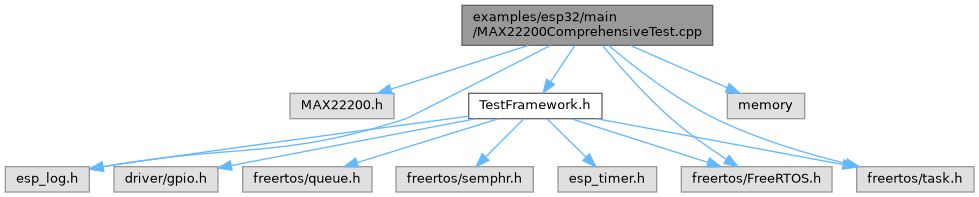
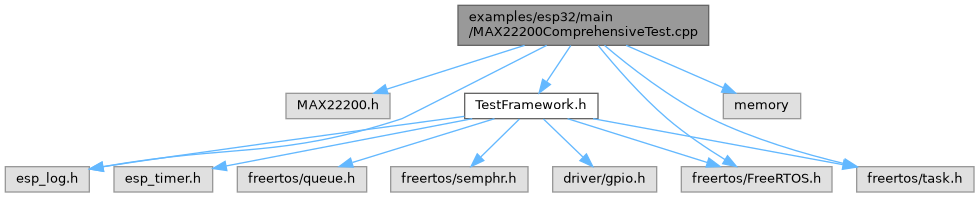
Deploy Doxygen artifacts for development
- Version: development
- Type: development
- Commit: 197cbf7da840f77dd56b8948029296d33334ba4c
- Ref: refs/heads/main
- Deployed: $(date -u +%Y-%m-%dT%H:%M:%SZ) 197cbf7da840f77dd56b8948029296d33334ba4c

diff --git a/doxs/development/TestFramework_8h_source.html b/doxs/development/TestFramework_8h_source.html
@@ -107,9 +107,9 @@ $(function(){initNavTree('TestFramework_8h_source.html',''); initResizable(); })
 <div class="line"><a id="l00018" name="l00018"></a><span class="lineno">   18</span><span class="keyword">extern</span> <span class="stringliteral">&quot;C&quot;</span> {</div>
 <div class="line"><a id="l00019" name="l00019"></a><span class="lineno">   19</span><span class="preprocessor">#endif</span></div>
 <div class="line"><a id="l00020" name="l00020"></a><span class="lineno">   20</span> </div>
-<div class="line"><a id="l00021" name="l00021"></a><span class="lineno">   21</span><span class="preprocessor">#include &quot;esp_log.h&quot;</span></div>
-<div class="line"><a id="l00022" name="l00022"></a><span class="lineno">   22</span><span class="preprocessor">#include &quot;esp_timer.h&quot;</span></div>
-<div class="line"><a id="l00023" name="l00023"></a><span class="lineno">   23</span><span class="preprocessor">#include &quot;driver/gpio.h&quot;</span></div>
+<div class="line"><a id="l00021" name="l00021"></a><span class="lineno">   21</span><span class="preprocessor">#include &quot;driver/gpio.h&quot;</span></div>
+<div class="line"><a id="l00022" name="l00022"></a><span class="lineno">   22</span><span class="preprocessor">#include &quot;esp_log.h&quot;</span></div>
+<div class="line"><a id="l00023" name="l00023"></a><span class="lineno">   23</span><span class="preprocessor">#include &quot;esp_timer.h&quot;</span></div>
 <div class="line"><a id="l00024" name="l00024"></a><span class="lineno">   24</span><span class="preprocessor">#include &quot;freertos/FreeRTOS.h&quot;</span></div>
 <div class="line"><a id="l00025" name="l00025"></a><span class="lineno">   25</span><span class="preprocessor">#include &quot;freertos/queue.h&quot;</span></div>
 <div class="line"><a id="l00026" name="l00026"></a><span class="lineno">   26</span><span class="preprocessor">#include &quot;freertos/semphr.h&quot;</span></div>
@@ -188,10 +188,10 @@ $(function(){initNavTree('TestFramework_8h_source.html',''); initResizable(); })
 <div class="line"><a id="l00107" name="l00107"></a><span class="lineno">  107</span>  <span class="keywordflow">if</span> (g_test_progress_initialized) {</div>
 <div class="line"><a id="l00108" name="l00108"></a><span class="lineno">  108</span>    <span class="comment">// Ensure GPIO14 is LOW before cleanup</span></div>
 <div class="line"><a id="l00109" name="l00109"></a><span class="lineno">  109</span>    gpio_set_level(TEST_PROGRESS_PIN, 0);</div>
-<div class="line"><a id="l00110" name="l00110"></a><span class="lineno">  110</span>    </div>
+<div class="line"><a id="l00110" name="l00110"></a><span class="lineno">  110</span> </div>
 <div class="line"><a id="l00111" name="l00111"></a><span class="lineno">  111</span>    <span class="comment">// Reset GPIO configuration</span></div>
 <div class="line"><a id="l00112" name="l00112"></a><span class="lineno">  112</span>    gpio_reset_pin(TEST_PROGRESS_PIN);</div>
-<div class="line"><a id="l00113" name="l00113"></a><span class="lineno">  113</span>    </div>
+<div class="line"><a id="l00113" name="l00113"></a><span class="lineno">  113</span> </div>
 <div class="line"><a id="l00114" name="l00114"></a><span class="lineno">  114</span>    g_test_progress_initialized = <span class="keyword">false</span>;</div>
 <div class="line"><a id="l00115" name="l00115"></a><span class="lineno">  115</span>    g_test_progress_state = <span class="keyword">false</span>;</div>
 <div class="line"><a id="l00116" name="l00116"></a><span class="lineno">  116</span>  }</div>
@@ -206,10 +206,10 @@ $(function(){initNavTree('TestFramework_8h_source.html',''); initResizable(); })
 <div class="line"><a id="l00128" name="l00128"></a><span class="lineno">  128</span> </div>
 <div class="line"><a id="l00129" name="l00129"></a><span class="lineno">  129</span>  <span class="comment">// Blink the specified number of times for section identification</span></div>
 <div class="line"><a id="l00130" name="l00130"></a><span class="lineno">  130</span>  <span class="keywordflow">for</span> (uint8_t i = 0; i &lt; blink_count; ++i) {</div>
-<div class="line"><a id="l00131" name="l00131"></a><span class="lineno">  131</span>    gpio_set_level(TEST_PROGRESS_PIN, 1);  <span class="comment">// HIGH</span></div>
-<div class="line"><a id="l00132" name="l00132"></a><span class="lineno">  132</span>    vTaskDelay(pdMS_TO_TICKS(50));         <span class="comment">// ON</span></div>
-<div class="line"><a id="l00133" name="l00133"></a><span class="lineno">  133</span>    gpio_set_level(TEST_PROGRESS_PIN, 0);  <span class="comment">// LOW</span></div>
-<div class="line"><a id="l00134" name="l00134"></a><span class="lineno">  134</span>    vTaskDelay(pdMS_TO_TICKS(50));         <span class="comment">// OFF</span></div>
+<div class="line"><a id="l00131" name="l00131"></a><span class="lineno">  131</span>    gpio_set_level(TEST_PROGRESS_PIN, 1); <span class="comment">// HIGH</span></div>
+<div class="line"><a id="l00132" name="l00132"></a><span class="lineno">  132</span>    vTaskDelay(pdMS_TO_TICKS(50));        <span class="comment">// ON</span></div>
+<div class="line"><a id="l00133" name="l00133"></a><span class="lineno">  133</span>    gpio_set_level(TEST_PROGRESS_PIN, 0); <span class="comment">// LOW</span></div>
+<div class="line"><a id="l00134" name="l00134"></a><span class="lineno">  134</span>    vTaskDelay(pdMS_TO_TICKS(50));        <span class="comment">// OFF</span></div>
 <div class="line"><a id="l00135" name="l00135"></a><span class="lineno">  135</span> </div>
 <div class="line"><a id="l00136" name="l00136"></a><span class="lineno">  136</span>    <span class="comment">// // Pause between blinks (except after the last one)</span></div>
 <div class="line"><a id="l00137" name="l00137"></a><span class="lineno">  137</span>    <span class="comment">// if (i &lt; blink_count - 1) {</span></div>

diff --git a/doxs/development/MAX22200ComprehensiveTest_8cpp.html b/doxs/development/MAX22200ComprehensiveTest_8cpp.html
@@ -101,39 +101,39 @@ $(function(){initNavTree('MAX22200ComprehensiveTest_8cpp.html',''); initResizabl
 <a href="#details">More...</a></p>
 <div class="textblock"><code>#include &quot;MAX22200.h&quot;</code><br />
 <code>#include &quot;<a class="el" href="TestFramework_8h_source.html">TestFramework.h</a>&quot;</code><br />
-<code>#include &lt;memory&gt;</code><br />
 <code>#include &quot;freertos/FreeRTOS.h&quot;</code><br />
 <code>#include &quot;freertos/task.h&quot;</code><br />
+<code>#include &lt;memory&gt;</code><br />
 <code>#include &quot;esp_log.h&quot;</code><br />
 </div><div class="textblock"><div class="dynheader">
 Include dependency graph for MAX22200ComprehensiveTest.cpp:</div>
 <div class="dyncontent">
 <div class="center"><img src="MAX22200ComprehensiveTest_8cpp__incl.png" border="0" usemap="#aexamples_2esp32_2main_2MAX22200ComprehensiveTest_8cpp" alt=""/></div>
 <map name="aexamples_2esp32_2main_2MAX22200ComprehensiveTest_8cpp" id="aexamples_2esp32_2main_2MAX22200ComprehensiveTest_8cpp">
-<area shape="rect" title="Comprehensive test suite for MAX22200 driver on ESP32&#45;C6." alt="" coords="462,5,713,45"/>
-<area shape="rect" title=" " alt="" coords="290,93,394,119"/>
-<area shape="poly" title=" " alt="" coords="529,48,391,92,390,87,528,43"/>
-<area shape="rect" href="TestFramework_8h.html" title="Shared testing framework for ESP32&#45;C6 comprehensive test suites." alt="" coords="469,93,602,119"/>
-<area shape="poly" title=" " alt="" coords="577,47,553,83,548,80,573,44"/>
+<area shape="rect" title="Comprehensive test suite for MAX22200 driver on ESP32&#45;C6." alt="" coords="458,5,709,45"/>
+<area shape="rect" title=" " alt="" coords="286,93,390,119"/>
+<area shape="poly" title=" " alt="" coords="525,48,387,92,386,87,524,43"/>
+<area shape="rect" href="TestFramework_8h.html" title="Shared testing framework for ESP32&#45;C6 comprehensive test suites." alt="" coords="465,93,598,119"/>
+<area shape="poly" title=" " alt="" coords="573,47,549,83,544,80,569,44"/>
 <area shape="rect" title=" " alt="" coords="5,167,89,192"/>
-<area shape="poly" title=" " alt="" coords="552,48,407,121,325,143,259,152,190,158,103,169,103,164,190,152,258,147,324,137,405,116,549,43"/>
+<area shape="poly" title=" " alt="" coords="548,48,403,121,322,143,257,152,189,158,103,169,103,164,189,152,256,146,321,137,401,116,545,43"/>
 <area shape="rect" title=" " alt="" coords="681,167,832,192"/>
-<area shape="poly" title=" " alt="" coords="604,44,635,79,673,117,728,157,725,161,670,121,631,83,600,47"/>
+<area shape="poly" title=" " alt="" coords="600,44,631,79,669,117,727,157,724,162,666,121,627,83,596,47"/>
 <area shape="rect" title=" " alt="" coords="857,167,974,192"/>
-<area shape="poly" title=" " alt="" coords="610,43,657,80,717,116,782,143,847,161,845,166,781,148,714,121,654,84,607,47"/>
-<area shape="rect" title=" " alt="" coords="727,93,805,119"/>
-<area shape="poly" title=" " alt="" coords="631,43,728,85,726,90,629,48"/>
-<area shape="poly" title=" " alt="" coords="469,119,103,169,103,164,468,114"/>
-<area shape="rect" title=" " alt="" coords="558,167,657,192"/>
-<area shape="poly" title=" " alt="" coords="549,117,588,155,584,159,545,121"/>
-<area shape="rect" title=" " alt="" coords="114,167,218,192"/>
-<area shape="poly" title=" " alt="" coords="476,121,232,168,231,163,475,116"/>
-<area shape="poly" title=" " alt="" coords="572,116,709,160,707,165,570,121"/>
-<area shape="rect" title=" " alt="" coords="243,167,372,192"/>
-<area shape="poly" title=" " alt="" coords="499,121,358,165,357,160,498,116"/>
-<area shape="rect" title=" " alt="" coords="396,167,533,192"/>
-<area shape="poly" title=" " alt="" coords="526,121,488,159,484,155,522,117"/>
-<area shape="poly" title=" " alt="" coords="597,116,843,162,842,167,596,121"/>
+<area shape="poly" title=" " alt="" coords="606,43,653,80,713,116,779,143,845,161,843,166,777,148,710,121,650,84,603,48"/>
+<area shape="rect" title=" " alt="" coords="723,93,801,119"/>
+<area shape="poly" title=" " alt="" coords="627,43,724,85,722,90,625,48"/>
+<area shape="rect" title=" " alt="" coords="553,167,657,192"/>
+<area shape="poly" title=" " alt="" coords="545,117,585,155,581,159,542,121"/>
+<area shape="poly" title=" " alt="" coords="465,119,103,169,102,164,464,114"/>
+<area shape="rect" title=" " alt="" coords="114,167,213,192"/>
+<area shape="poly" title=" " alt="" coords="473,121,227,169,226,163,472,116"/>
+<area shape="poly" title=" " alt="" coords="568,116,708,160,706,165,567,121"/>
+<area shape="rect" title=" " alt="" coords="237,167,367,192"/>
+<area shape="poly" title=" " alt="" coords="495,121,353,165,352,160,494,116"/>
+<area shape="rect" title=" " alt="" coords="391,167,528,192"/>
+<area shape="poly" title=" " alt="" coords="521,121,483,159,479,155,518,117"/>
+<area shape="poly" title=" " alt="" coords="594,116,843,162,842,167,593,121"/>
 </map>
 </div>
 </div><table class="memberdecls">

diff --git a/doxs/development/TestFramework_8h.html b/doxs/development/TestFramework_8h.html
@@ -101,9 +101,9 @@ $(function(){initNavTree('TestFramework_8h.html',''); initResizable(); });
 
 <p>Shared testing framework for ESP32-C6 comprehensive test suites.  
 <a href="#details">More...</a></p>
-<div class="textblock"><code>#include &quot;esp_log.h&quot;</code><br />
+<div class="textblock"><code>#include &quot;driver/gpio.h&quot;</code><br />
+<code>#include &quot;esp_log.h&quot;</code><br />
 <code>#include &quot;esp_timer.h&quot;</code><br />
-<code>#include &quot;driver/gpio.h&quot;</code><br />
 <code>#include &quot;freertos/FreeRTOS.h&quot;</code><br />
 <code>#include &quot;freertos/queue.h&quot;</code><br />
 <code>#include &quot;freertos/semphr.h&quot;</code><br />
@@ -113,21 +113,21 @@ Include dependency graph for TestFramework.h:</div>
 <div class="dyncontent">
 <div class="center"><img src="TestFramework_8h__incl.png" border="0" usemap="#aexamples_2esp32_2main_2TestFramework_8h" alt=""/></div>
 <map name="aexamples_2esp32_2main_2TestFramework_8h" id="aexamples_2esp32_2main_2TestFramework_8h">
-<area shape="rect" title="Shared testing framework for ESP32&#45;C6 comprehensive test suites." alt="" coords="357,5,524,45"/>
-<area shape="rect" title=" " alt="" coords="5,93,89,119"/>
-<area shape="poly" title=" " alt="" coords="358,45,104,96,103,91,357,40"/>
-<area shape="rect" title=" " alt="" coords="114,93,213,119"/>
-<area shape="poly" title=" " alt="" coords="375,48,218,92,216,87,374,43"/>
-<area shape="rect" title=" " alt="" coords="237,93,341,119"/>
-<area shape="poly" title=" " alt="" coords="405,48,325,89,322,84,403,43"/>
-<area shape="rect" title=" " alt="" coords="365,93,516,119"/>
-<area shape="poly" title=" " alt="" coords="443,46,443,79,438,79,438,46"/>
-<area shape="rect" title=" " alt="" coords="540,93,669,119"/>
-<area shape="poly" title=" " alt="" coords="481,43,570,85,567,90,479,48"/>
-<area shape="rect" title=" " alt="" coords="693,93,831,119"/>
-<area shape="poly" title=" " alt="" coords="518,43,702,87,701,93,517,48"/>
-<area shape="rect" title=" " alt="" coords="855,93,973,119"/>
-<area shape="poly" title=" " alt="" coords="525,38,842,90,842,95,524,43"/>
+<area shape="rect" title="Shared testing framework for ESP32&#45;C6 comprehensive test suites." alt="" coords="358,5,525,45"/>
+<area shape="rect" title=" " alt="" coords="5,93,109,119"/>
+<area shape="poly" title=" " alt="" coords="358,46,123,94,122,89,357,41"/>
+<area shape="rect" title=" " alt="" coords="134,93,218,119"/>
+<area shape="poly" title=" " alt="" coords="379,48,229,92,227,87,377,43"/>
+<area shape="rect" title=" " alt="" coords="243,93,341,119"/>
+<area shape="poly" title=" " alt="" coords="407,48,328,89,325,84,404,43"/>
+<area shape="rect" title=" " alt="" coords="366,93,517,119"/>
+<area shape="poly" title=" " alt="" coords="444,46,444,79,439,79,439,46"/>
+<area shape="rect" title=" " alt="" coords="541,93,670,119"/>
+<area shape="poly" title=" " alt="" coords="482,43,570,85,568,90,479,48"/>
+<area shape="rect" title=" " alt="" coords="694,93,831,119"/>
+<area shape="poly" title=" " alt="" coords="519,43,703,87,702,93,518,48"/>
+<area shape="rect" title=" " alt="" coords="856,93,973,119"/>
+<area shape="poly" title=" " alt="" coords="525,38,843,90,842,95,524,43"/>
 </map>
 </div>
 </div><div class="textblock"><div class="dynheader">
